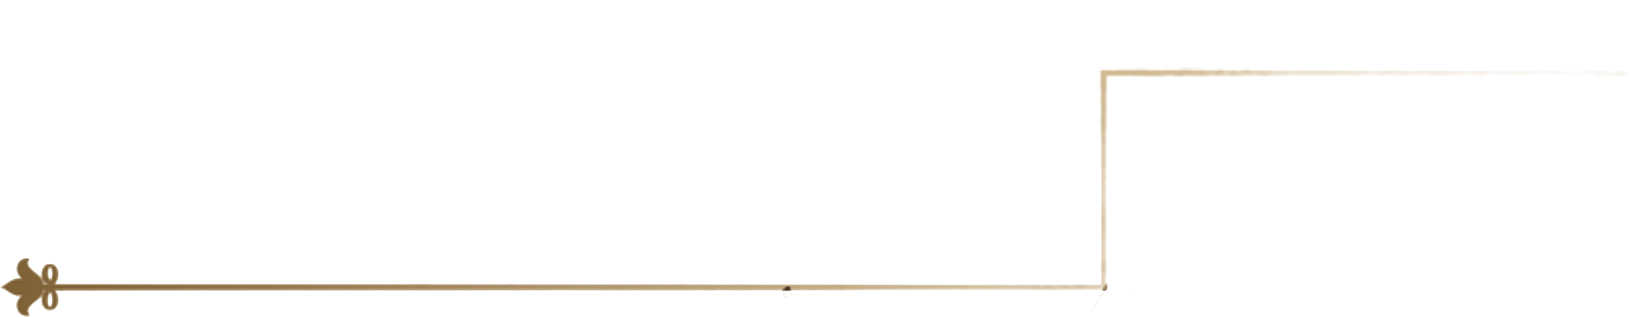
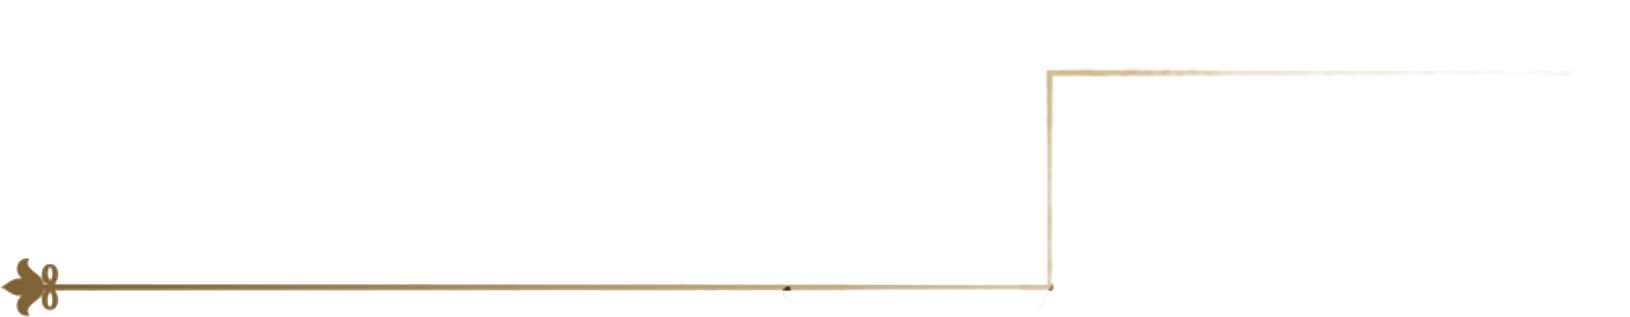
script components

diff --git a/src/botc_tokens/commands/script.py b/src/botc_tokens/commands/script.py
@@ -69,6 +69,7 @@ def _parse_args():
     parser.add_argument('--duplicates', type=str, default=None,
                         help="A json file containing the number of duplicates to add for each role.")
     parser.add_argument("--grid", action="store_true", help="Use a grid layout instead of close packing.")
+    parser.add_argument("--blocklinebreak", type=bool, default=False, help="Block type switch after type changes")
     args = parser.parse_args(sys.argv[2:])
 
     return args
@@ -113,7 +114,7 @@ def run():
         step_task = step_progress.add_task("Adding roles")
         role_page = Printable(
             output_dir,
-            basename="roles",
+            basename="script",
             page_width=args.paper_width,
             page_height=args.paper_height,
             margin_vertical=args.margin_vertical,
@@ -131,11 +132,12 @@ def run():
         role_page.set_background(components.get_script_bg())
         role_page.set_linebreak(components.get_script_type_line())
         role_page.set_linebreak_switch(components.get_script_type_line_broken())
-        role_page.set_start(200,390)
+        role_page.set_start(200 + role_page.margin_horizontal,320 + role_page.margin_vertical)
 
+        #role_page.write_scriptname(args.scriptname, components)
 
         process_tokens(role_images, role_page, script,
-                       step_progress, step_task)
+                       step_progress, step_task, args.blocklinebreak, components)
 
         # Save the last pages
         step_progress.update(step_task, description="Saving pages")
@@ -161,22 +163,23 @@ def load_components(component_package):
     return components
 
 def process_tokens(role_images, role_page, script,
-                   step_progress, step_task):
+                   step_progress, step_task, blockline, components):
     """Do all the processing.
 
     If we are being honest, this function exists separate from the run() function only to decrease its complexity.
     """
     last_character = "townsfolk"
+    role_page.write_typeline(components, last_character)
 
     for i in range(len(script)):
         print(f"------------------------------------------------------")
         role = script[i]
-        blockLineBreak = False
+        forceSwitch = False
 
         if isinstance(role, dict):
             continue  # Skip metadata
 
-        last_role = None
+
 
         print(f"[yellow]Warning:[/] last_character type: {last_character}")
 
@@ -186,7 +189,8 @@ def process_tokens(role_images, role_page, script,
             print(f"[yellow]Warning:[/] previous_character {last_role} ({get_role_type_by_name(last_role, role_images)})")
             if last_role != None and not isinstance(last_role, dict) and get_role_type_by_name(role, role_images) != get_role_type_by_name(last_role, role_images) and (i % 2) == 0:
                 print(f"[yellow]Warning:[/] Character type switch")
-                blockLineBreak = True
+                if(blockline == True):
+                    forceSwitch = True
 
 
 
@@ -206,8 +210,9 @@ def process_tokens(role_images, role_page, script,
         if character_type != last_character:
             print(f"[yellow]Warning:[/] create type break to {character_type}")
             role_page.add_breakline(i)
+            role_page.write_typeline(components, character_type)
 
-        role_page.add_script_token(role_file, (character_type != last_character and blockLineBreak != True), blockLineBreak)
+        role_page.add_script_token(role_file, forceSwitch)
 
 
 

diff --git a/src/botc_tokens/helpers/printable.py b/src/botc_tokens/helpers/printable.py
@@ -6,6 +6,10 @@ from pathlib import Path
 # Third Party
 from wand.image import Image
 
+from .token_components import TokenComponents
+from ..helpers.text_tools import fit_ability_text_block, fit_ability_text_block_with_font
+
+
 # Application Specific
 
 
@@ -62,6 +66,34 @@ class Printable:
         self.start_y = 0
 
         self.save_page()  # Initializes the first page
+
+    def write_typeline(self, components, character_type):
+        ability_text_img = fit_ability_text_block_with_font(
+            text=character_type.upper(),
+            font_size=40,
+            first_line_width=300,
+            left=0,
+            components=components,
+            font=components.RoleNameFont
+        )
+
+        self.page.composite(ability_text_img, left=(self.page_width - 300), top=self.current_y-80)
+        ability_text_img.close()
+
+    def write_scriptname(
+            self,
+            scriptname: str,
+            components: TokenComponents):
+        ability_text_img = fit_ability_text_block(
+            text=scriptname,
+            font_size=50,
+            first_line_width=200,
+            left=0,
+            components=components
+        )
+
+        self.page.composite(ability_text_img, left=(self.page_width - 800), top=100)
+        ability_text_img.close()
 
     def set_linebreak(self, linebreak_file):
         self.linebreak = linebreak_file
@@ -143,6 +175,7 @@ class Printable:
 
     def set_background(self, background):
         """Add a background to the pdf"""
+        background.resize(width=(background.width - (self.margin_horizontal * 2)), height=(background.height - (self.margin_vertical * 2)))
         self.page.composite(background, left=0, top=0)
 
         self.scriptname = None
@@ -158,9 +191,9 @@ class Printable:
             self.page.composite(self.linebreak_switch, left=int(self.start_x), top=int(self.current_y-40))
             self.current_y += 5 + self.linebreak.height
 
-    def add_script_token(self, token_file, breakline, blockLineBreak):
+    def add_script_token(self, token_file, forceSwitch):
         """Add a token to the current page."""
-        print(f"\n[red]Error:[/][bold] {token_file} has linebreak {breakline} and blockline {blockLineBreak}")
+
         with Image(filename=token_file) as token:
             # Unless we have a fixed
             # diameter, use the largest dimension of the first token as the diameter
@@ -172,10 +205,13 @@ class Printable:
  #               self.current_x = self.start_x
  #               self.current_y += token.height + 0
 
+            token_width = int((self.page_width - (self.margin_horizontal * 2) - self.start_x) / 2)
+            print(f"\n[red]Error:[/][bold] {token_file} width {forceSwitch}")
+            token.resize(width=token_width)
             self.page.composite(token, left=int(self.current_x), top=int(self.current_y))
 
             self.current_x += token.width
-            if self.current_x > token.width + self.start_x:
+            if self.current_x > token.width + self.start_x or forceSwitch:
                 self.current_x = self.start_x
                 self.current_y += token.height + 0
 

diff --git a/src/botc_tokens/helpers/text_tools.py b/src/botc_tokens/helpers/text_tools.py
@@ -89,6 +89,9 @@ def fit_ability_text(text, font_size, first_line_width, step, components):
     return img
 
 def fit_ability_text_block(text, font_size, first_line_width, left, components):
+    return fit_ability_text_block_with_font(text, font_size, first_line_width, left, components, components.AbilityTextFont)
+
+def fit_ability_text_block_with_font(text, font_size, first_line_width, left, components, font):
     """Take an ability text and fit it to a given width.
 
     Args:
@@ -105,7 +108,7 @@ def fit_ability_text_block(text, font_size, first_line_width, left, components):
 
     with Drawing() as draw:
         # Assign font details
-        draw.font = str(components.AbilityTextFont)
+        draw.font = str(font)
         draw.font_size = font_size
         draw.fill_color = Color("#000000")
         # Determine how many lines we need and how long each line needs to be.

diff --git a/src/botc_tokens/helpers/token_creation.py b/src/botc_tokens/helpers/token_creation.py
@@ -139,7 +139,7 @@ def create_role_script_block(
     ability_text_img = fit_ability_text_block(
         text=role.ability,
         font_size=int(block.height * 0.15),
-        first_line_width=int(block.width * .82),
+        first_line_width=int(block.width * .8),
         left=int(block.width * .20),
         components=components
     )

diff --git a/src/botc_tokens/helpers/token_components.py b/src/botc_tokens/helpers/token_components.py
@@ -127,6 +127,9 @@ class TokenComponents:
         """Get the reminder background image."""
         return self.reminder_bg.clone()
 
+    def get_font(self):
+        return self.AbilityTextBoldFont
+
     def get_role_bg(self):
         """Get the role background image."""
         return self.role_bg.clone()
